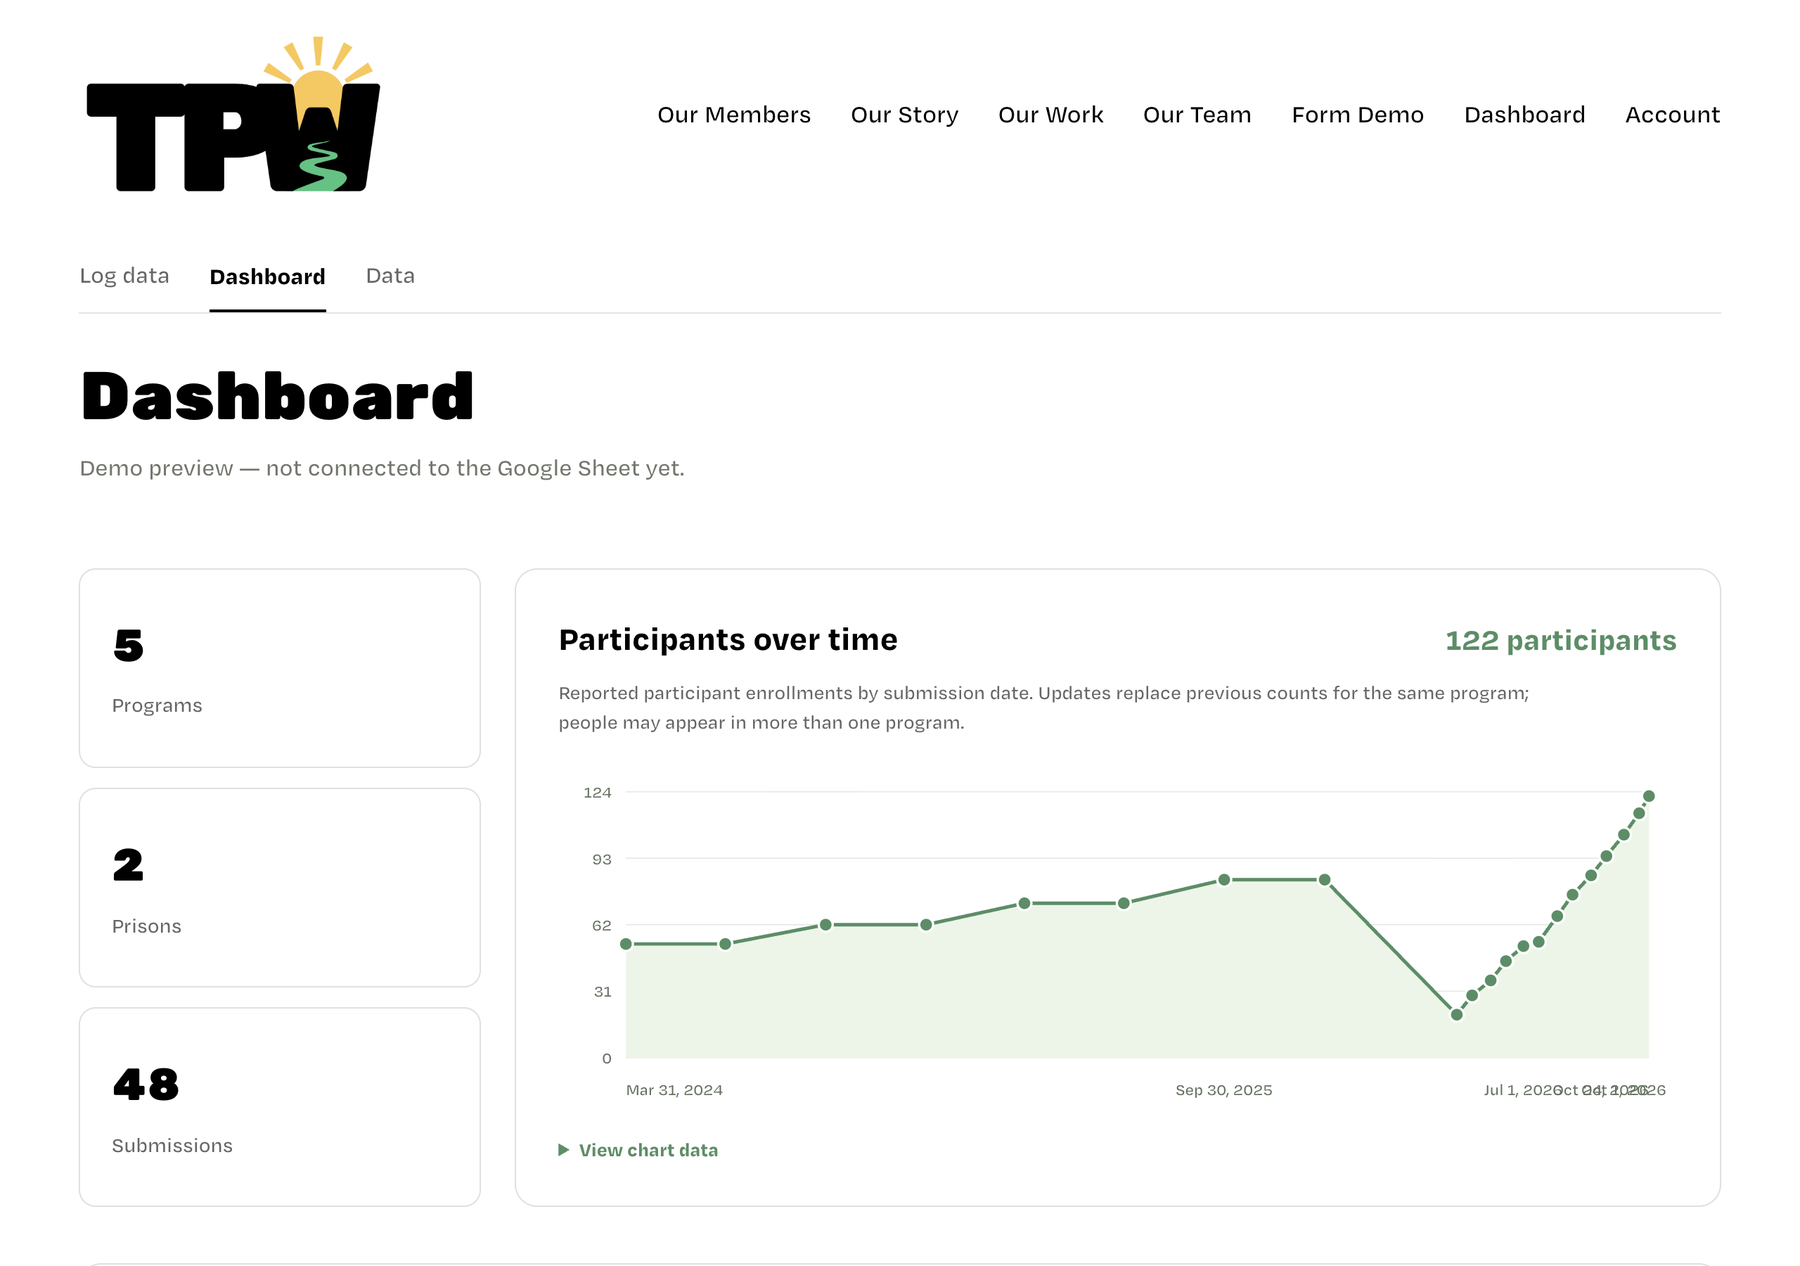
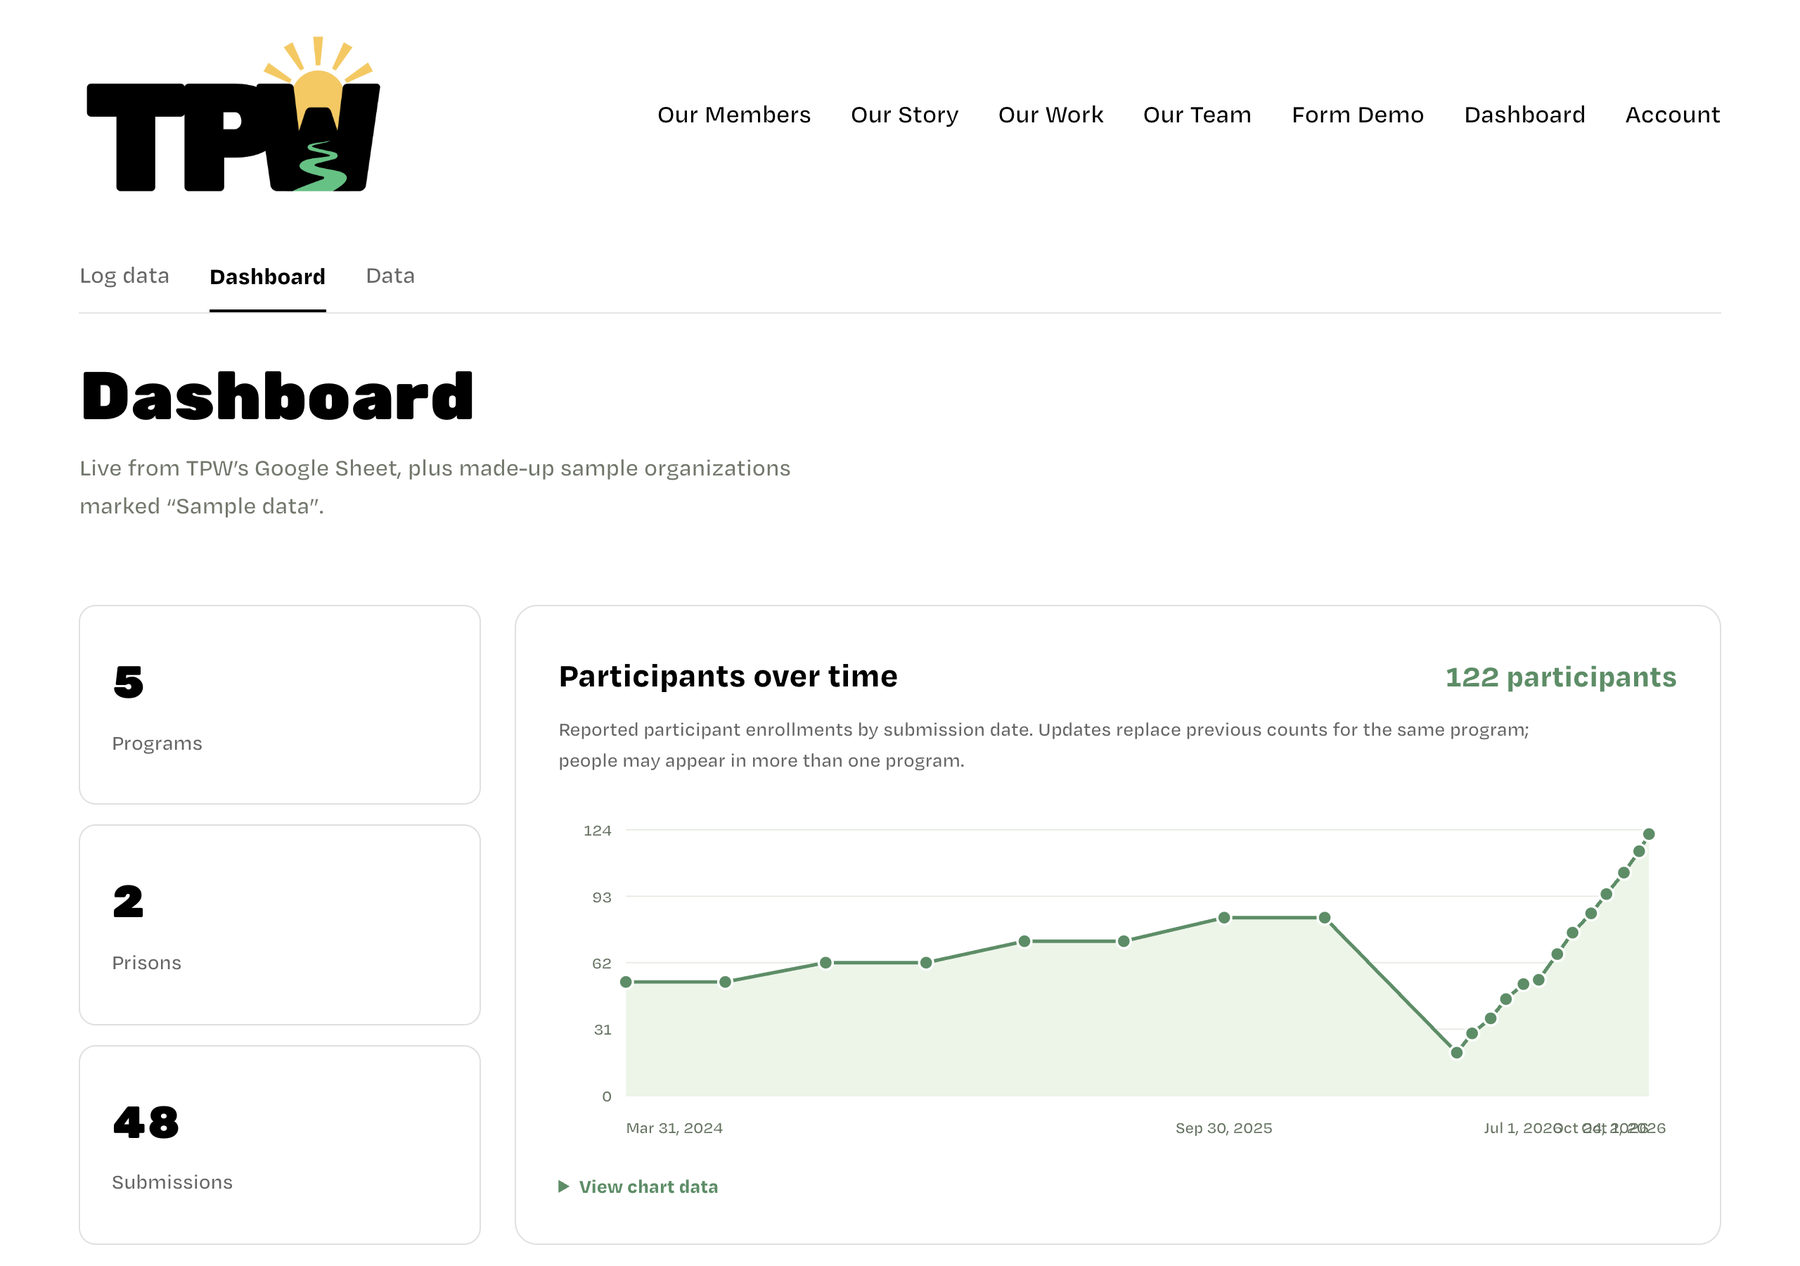
docs: retake the staff guide screenshots from the current main
New sign-in box picture replaces the account menu one. Check-in, next,
receipt and dashboard pictures retaken after the Firebase retirement.
The dashboard's read of the sheet was stubbed, so no real rows were read.

diff --git a/docs/staff-guide-screenshots/README.md b/docs/staff-guide-screenshots/README.md
@@ -2,13 +2,13 @@
 
 Screenshots of the TPW data collection tool, used in the staff guide for Ken and Quan (a Google Slides deck). They show what a member and a staff person see, step by step.
 
-**Everything on screen is made up.** The form was filled in with "Sample Organization (made-up data)" and "Sample Reading Circle (made-up)". The submit button was intercepted, so nothing was sent to the real Google Sheet. The reference code (56F98641) is an example copied from the demo rows in the sheet.
+**Everything on screen is made up.** The form was filled in with "Sample Organization (made-up data)" and "Sample Reading Circle (made-up)". The submit button was intercepted, and so was the dashboard's read of the sheet, so nothing was sent to or read from the real Google Sheet. The reference code (56F98641) is an example copied from the demo rows in the sheet.
 
-Taken on 25 October 2026 from `main` (after the Session tab was removed and TPW's wording went in), with headless Chrome at twice the normal pixel density. The date boxes are shown in US order (mm/dd/yyyy), the way a Californian member's browser draws them.
+Taken on 25 October 2026 from `main` (after the Session tab was removed, Firebase was retired and the dashboards began reading the sheet), with headless Chrome at twice the normal pixel density. The date boxes are shown in US order (mm/dd/yyyy), the way a Californian member's browser draws them.
 
 | File | What it shows |
 |---|---|
-| `door_menu.png` | Members Login opening the account menu, with the new Intake entry |
+| `door_signin.png` | Members Login opening a copy of TPW's own sign-in box. On the demo site you pick Org 1, Org 2 or TPW staff, and no password is checked |
 | `door_logdata.png` | The Log data page when no one is signed in: the Quarterly totals tab, step 1 of the form |
 | `door_checkin.png` | Log data for a sample organization: the form starts from last quarter's report and asks only for this quarter's numbers |
 | `form_org.png` | Step 1: the organization's name |
@@ -20,9 +20,9 @@ Taken on 25 October 2026 from `main` (after the Session tab was removed and TPW'
 | `form_receipt.png` | The receipt after a successful submission |
 | `form_error_numbers.png` | The message when completed is higher than started |
 | `form_error_connection.png` | The message when the connection drops on submit |
-| `dashboard.png` | The Dashboard page, which shows sample data only |
+| `dashboard.png` | The Dashboard page. It reads TPW's Google Sheet plus the made-up sample organizations. For the picture the sheet read was stubbed out, so only the sample organizations show |
 | `datapage.png` | The Data page as someone with access sees it: the Google Sheet shown inside the website. Taken while the workbook was still open to anyone with its link; it is private now, so someone signed out sees a Google sign-in prompt instead |
-| `sheet_strip_a.png`, `sheet_strip_b.png`, `sheet_strip_c.png` | The main tab's columns A to G, H to M and N to R, first rows |
+| `sheet_strip_a.png`, `sheet_strip_b.png`, `sheet_strip_c.png` | The main tab's columns A to G, H to M and N to R, first rows. Taken before the sheet gained its Test data column at the far right, and not retaken because the workbook is private now |
 | `sheet_tabs.png` | The tabs along the bottom of the workbook |
 
 If the app's screens change, retake these rather than editing them, and keep the data made up.
